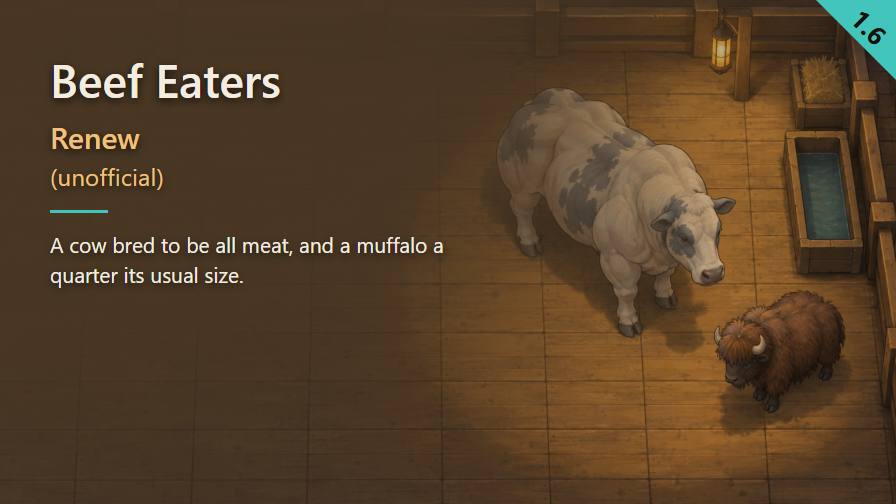
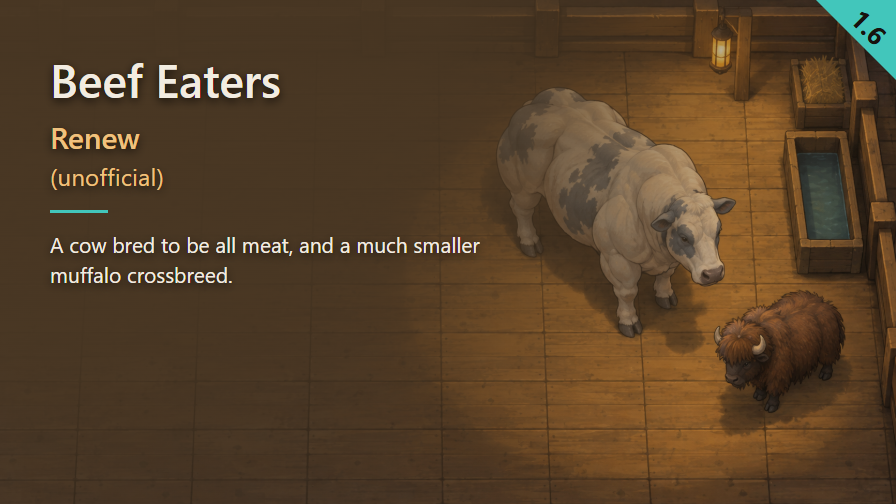
Audit workflow readiness and fix editorial inconsistencies

Changed region(s): [[0.0625, 0.5357, 0.2812, 0.5655], [0.4062, 0.4762, 0.5312, 0.506]]

diff --git a/Art/preview.html b/Art/preview.html
@@ -19,7 +19,7 @@ p { width:430px; font-size:21px; font-weight:400; line-height:1.45; letter-spaci
 <div class="stage">
 <img class="shot" src="Preview.png">
 <div class="veil"></div>
-<div class="text"><h1>Beef Eaters<br><span class="title-suffix">Renew</span></h1><div class="tag">(unofficial)</div><div class="rule"></div><p>A cow bred to be all meat, and a muffalo a quarter its usual size.</p></div>
+<div class="text"><h1>Beef Eaters<br><span class="title-suffix">Renew</span></h1><div class="tag">(unofficial)</div><div class="rule"></div><p>A cow bred to be all meat, and a much smaller muffalo crossbreed.</p></div>
 <div class="badge"></div><div class="version"></div>
 </div>
 <script>

diff --git a/STATUS.md b/STATUS.md
@@ -1,10 +1,14 @@
 ---
+localization: complete
+translation_en: complete
+translation_fr: complete
+settings_audit: not_applicable
 mod:          Beef Eaters Renew (unofficial)
 packageId:    nelim.beefeatersrenew
 repo:         Rimworld-Beef-Eaters-Renew
 visibility:   public
 detached:     yes
-stage:        preTest
+stage:        done
 licence:      silent
 licence_at:   browser-verified 2026-09-12; original files, live description, all 29 comments, 9 changelog entries and author profile; no reuse terms; last mod update 2023-03-11
 dependencies: none
@@ -16,12 +20,150 @@ remaining:
   - unverified: the Animal Gear patch, inert without that mod and never exercised (scenario M)
   - unverified: AnimalFarm added to the pygmy beefalo, so it can be traded at all; no trader has been forced yet (scenario I)
   - unverified: incompatibleWith TheGoofyOne.BeefEaters, never seen firing in the mod list (scenario N)
-  - unverified: French translations added for 21 fields; in-game French display and optional armour still to verify
+  - unverified: English and French in-game display for all 21 owned text fields, generated recipe text and optional armour with Animal Gear enabled/disabled (scenario P)
 session:      local_c1f0d325-e5cd-4552-abce-8d77af2f363d
-updated:      2026-09-13, preview illustration replaced
+updated:      2026-09-13, editorial audit findings fixed and affected checks passed; runtime unverified
 ---
 
 # Beef Eaters Renew — status
+
+## Editorial fixes after audit — 2026-09-13
+
+The user requested correction of the audit findings. All editorial findings listed in the
+audit below are now resolved in the working tree based on
+`c1ace096293cb5338fce3ea824afee27a221e0c4`:
+
+- Replaced the unsupported "quarter" comparison in About.xml and the preview HTML with
+  a qualitative smaller muffalo crossbreed description. Re-rendered the delivered Preview.png
+  using the existing HTML compositor and original illustration; no illustration was generated.
+- Added the exact Steam-formatted Source code on GitHub link at the end of About's description.
+- Removed the changelog's obsolete image-creation todo, corrected the texture count to twenty
+  in TESTING.md and the checker comment, and corrected TESTING's load-order wording to five
+  optional expansions rather than six required expansions.
+
+Validation: `pwsh -NoProfile -File Tools/Check-Mod.ps1` passed (exit 0), including all six XML
+files. Direct XML assertions confirmed the final source link and removal of the old size
+claim. `git diff --check` passed. `node Art/render-preview.cjs` passed using the installed
+runtime packages via NODE_PATH. New Art/preview-qa.json records Segoe UI without fallback,
+896 x 504, 448,366 bytes and minimum contrast 5.87:1 (summary 7.19:1). The delivered image
+and 268-pixel thumbnail were directly inspected: readable title/version, no clipping or
+overlap, and distinct turquoise accent/ochre secondary ink.
+
+Previous rendered preview, thumbnail, background and QA JSON are preserved in
+`Art/archive-before-editorial-fix-2026-09-13/`. The original illustration and icon are unchanged.
+New delivered Preview SHA-256:
[1 lines of base64/hex data omitted]
+Historical audit measurements and findings below describe the pre-fix revision.
+
+`stage: done` remains justified. Settings, translations and dependency validations are
+unaffected: no Def, patch, language resource or gameplay value changed. About metadata is
+outside the in-game translation gate. All previously pending gameplay scenarios remain
+unverified. Existing STATUS.md/TESTING.md edits were preserved; no commit or publication.
+
+## Ordered workflow audit — 2026-09-13
+
+**Verdict: `done` -> `done`.** This audit applies the user's nine-transition workflow,
+including its explicit precedence over PUBLISHING.md, STYLE_RIMWORLD.md, MOD_SETTINGS.md
+and TRANSLATIONS.md. Stage values here are literal workflow names, not numeric codes:
+`dansMonoRepo -> horsMonoRepo -> ModIcon générée -> Preview générée -> preOptions ->
+options -> l10n -> preTest -> done -> tested`. `done` means ready for final in-game
+validation; it does not certify gameplay. The historical notes below are preserved.
+
+Audited checkout: `C:/Users/nelim/Documents/rimworld/BeefEatersRenew`, its own `.git`;
+delivered content: its `Mod/` directory. Revision:
+`c1ace096293cb5338fce3ea824afee27a221e0c4`. At entry only STATUS.md was locally modified
+(including the change from committed `preTest` to working-tree `done`). During the audit,
+another writer updated STATUS.md's translation review and TESTING.md scenario P. Those
+changes were read and preserved. The delivered `Mod/` files have no local diff against
+the audited commit. This audit edits only STATUS.md; no implementation, image, commit,
+publication or historical test result was created or replaced.
+
+| Transition reached | Result | Evidence and scope |
+|---|---|---|
+| horsMonoRepo | validated | Git root is this standalone folder. Live `gh repo view vbardales/Rimworld-Beef-Eaters-Renew --json name,visibility,url,defaultBranchRef` returned PUBLIC, main and the configured URL. `git ls-remote origin HEAD` returned the audited SHA, establishing a pushed commit. STATUS, README, ATTRIBUTION and CHANGELOG exist in English; both attribution copies match. |
+| ModIcon générée | validated; build not applicable | XML/content-only distribution, no C# project or assembly to compile. Direct inspection of the PNG: outlined orange winking mascot, ponytail, meat motif, dark background, no lettering. Measured 128 x 128, PNG, 21,228 bytes. |
+| Preview générée | validated | Directly inspected delivered 896 x 504 PNG and the 268-pixel QA thumbnail: large pale muscular cow and smaller horned shaggy beefalo, high oblique view, regular plank floor, restrained warm palette, no concrete camera defect. 448,124 bytes, below 1 MB. No historical generation report or comparison screenshot is required to establish these observations. |
+| preOptions | validated | English description; Renew remains a reduced secondary-colour suffix and (unofficial) is a separate tag. No linking word in the title requires treatment. The turquoise rule/badge visibly separates from the ochre secondary ink. Palette JSON and composition HTML agree; version badge matches declared 1.6. |
+| options | not applicable justified; gate passed | See Settings audit below. The user's clarification permits the source-based no-settings decision without gameplay. |
+| l10n | validated | All 21 owned fields inventoried and covered by English source values and French injections; checker passed. Generated recipe strings use native translated templates, also checked below. |
+| preTest | validated | References and abstract parents resolve against Core alone; seven XML classes resolve. No mandatory third-party dependency or DLC is used. Listed DLC loadAfter entries are ordering hints, not requirements. Animal Gear is optional behind the sole FindMod guard, with no absent-mod branch. No LoadFolders or version-specific folders. Original packageId confirmed from installed upstream About.xml. |
+| done | validated | TESTING.md A-P supplies actions and expected outcomes, with baseline/load-order/dev-mode preconditions and separate optional-mod/save cases. Applicable automated and XML checks executed successfully on this delivered revision. |
+| tested | unverified | No scenario was executed in a running game by this audit. No attributable gameplay log, EN/FR interface result, new-game or existing-save result is available. Animal Gear present/absent runtime behaviour remains unverified, not a confirmed defect. |
+
+### Settings audit
+
+Inventory reviewed: two animal ThingDefs and PawnKindDefs, their milk/wool comps, race
+statistics, training, roaming, spawning, trade tags, and the conditional armour recipe.
+These are fixed species/content definitions, not an existing user configuration contract.
+The port preserves species balance; no documented player setting requires XML editing.
+Adding sliders for every balance constant would introduce a new feature without a stated
+need. Armour availability follows installed Animal Gear automatically. There is no custom
+settings/persistence code, Mod subclass, MainButtonDef, settings page or shortcut anywhere
+in the distributed files. Thus `settings_audit: not_applicable` is justified by the content
+inventory, not merely by the absence of a DLL. Defaults/input/persistence/reset and shortcut
+tests are not applicable. No RIMMSQOL or other customization integration is claimed tested.
+
+### Checks executed and evidence limits
+
+Installed reference game: `1.6.4871 rev590` from RimWorld/Version.txt. Commands were run
+from this checkout with PowerShell 7 (`pwsh -NoProfile -File`):
+
+- `Tools/Check-Mod.ps1`: passed all five groups, including six XML parses, Wildness values,
+  textures, metadata, trade tags, attribution equality and optional patch structure.
+- `../scripts/Check-XmlFields.ps1 -ModPath ./Mod`: four files checked, no unknown fields.
+- `../scripts/Check-DefInjected.ps1 -TransMod ./Mod`: 21 keys, zero errors and no unresolved
+  targets reported. Its offline patch processing is not a running-game integration test.
+- `../scripts/Check-DefRefs.ps1 -ModPath ./Mod -GameData 'C:/Program Files (x86)/Steam/steamapps/common/RimWorld/Data/Core'`:
+  three ThingDefs, no unresolved or wrongly typed references, all parents resolved.
+- `../scripts/Check-XmlClasses.ps1 -ModPath ./Mod -TypeLists ../rw16_types.txt`:
+  all seven referenced classes resolved. The first invocation omitted mandatory TypeLists
+  and did not run; the corrected invocation above passed.
+- Read the installed assembly's `RimWorld.RecipeDefGenerator` using ilspycmd with
+  `DOTNET_ROLL_FORWARD=Major` (its initial .NET 6 launch failed; .NET 8 roll-forward worked).
+  Armour recipe label, description and work text use RecipeMake, RecipeMakeDescription and
+  RecipeMakeJobString. Verified their English XML and French archive entries: all three
+  contain matching `{0}` parameters and real translations. No redundant mod recipe keys
+  are needed. No mod-owned formatting parameters, duplicate/empty entries or raw keys found.
+- System.Drawing decoded both delivered images and measured their PNG format/dimensions
+  and byte sizes. Visual review covered the actual delivered images; existing palette,
+  HTML and QA JSON were inspected without rerendering or overwriting historical artefacts.
+  Historical numerical contrasts/font measurements were not newly measured by this audit.
+
+Initial sandbox-only GitHub access failed; authorized read-only access then succeeded.
+Licence classification remains `silent` under the project's policy, based on the detailed
+2026-09-12 upstream review retained below and the installed original inspected again here
+(no LICENSE/COPYING, support through 1.4, matching original packageId). This audit does not
+claim a fresh review of every Steam comment or infer upstream permission. No new third-party
+licence should be invented; the lack of a LICENSE file is justified for this unlicensed
+third-party content. The public/unofficial notices match the documented project decision.
+
+### Remaining mandatory validation and separate editorial observations
+
+For `done -> tested`, execute the relevant A-P scenarios in RimWorld 1.6, record actual
+results and inspect logs, including English/French text, a new colony and an existing save,
+and Animal Gear enabled/disabled for the shipped integration. Settings interaction and
+persistence are not applicable; verify the expected absence of an empty settings entry.
+Record the exact game/integration versions and revision, then rerun affected regressions
+after any corrections. No game session or Animal Gear test environment was exercised here.
+
+Non-blocking editorial findings, separate from missing mandatory gameplay checks:
+
+- About's introductory text and the preview say "a quarter" of a muffalo's size, whereas
+  the detailed description and Def body sizes are 1.0 versus 2.4 (about 42%). The numeric
+  shorthand is inconsistent if intended as body size. Prefer a qualitative smaller-animal
+  description when those materials are next revised; this is not a visual camera defect.
+- The GitHub source link exists, but About's description does not end with the exact Steam
+  `[url=...]Source code on GitHub[/url]` form prescribed for publication. Align it before
+  publication; this does not invalidate the requested development/test transitions.
+- CHANGELOG's release todo still asks to add images already delivered, and TESTING's
+  opening texture count says nineteen although twenty PNG textures are shipped. These
+  stale counts do not indicate missing artefacts or failed tests.
+
+Image SHA-256 anchors:
[2 lines of base64/hex data omitted]
+
+## Historical status notes
 
 Status card, read by a sweep over every mod rather than by asking each thread one at a time. It
 lives at the root, never inside `Mod/`, so Steam never receives it.
@@ -33,10 +175,10 @@ The fields above were read off the disk on 2026-09-12 by the sweep, which left t
 corrupted — `licence` read `licence_ou:` and `licence_at` had swallowed a `vitrine:` key. They are
 repaired here, along with the four the sweep could not know:
 
-- **`stage`** — `preTest`. The port itself is whole and has been since the first commit: wildness
-  moved from a `RaceProperties` field to a stat under `statBases`, on both animals, which is the one
-  line 1.6 required. The icon was made on 2026-09-12; the preview illustration was replaced on 2026-09-13. Nothing is left but the game, and then
-  the Workshop, which is what `preTest` means here.
+- **`stage`** — `done`, accepted by the user on 2026-09-13. Implementation, French translation,
+  automated checks and showcase are complete. The unplayed manual scenarios remain recorded
+  as verification limits, not blockers to this completion decision. Workshop publication has
+  not been performed; `done` does not claim runtime validation or publication.
 - **`tested_on`** — empty, and that is accurate rather than an omission. Neither animal has ever
   been seen in a running game. No calf spawned, no information card read, no pen filled.
 - **`licence`** — `silent`. The original states nothing in any of the four places `ATTRIBUTION.md`
@@ -53,6 +195,50 @@ conversation.
 The `licence` vocabulary: `open` an explicit licence, `silent` no licence and a dead source,
 `alive` no licence but a living source, `forbidden` a written refusal, `original` owing nothing
 to anyone — not a name, not an idea traceable to one mod, not a value derived from its assets.
+
+## Translation audit — 2026-09-13
+
+Applied `../PUBLISHING.md` and `../TRANSLATIONS.md` to the content at revision
+`c1ace096293cb5338fce3ea824afee27a221e0c4`. Reviewed both files under `Mod/Defs/`,
+`Mod/Patches/Armor.xml`, both French DefInjected files and the full published file list.
+There are no assemblies, UI source, Keyed strings, custom grammar resources, version
+folders or LoadFolders. The optional Animal Gear patch is included in this inventory.
+
+| Owned text source | English source fields | French entries |
+|---|---:|---:|
+| BelgianBlueCow ThingDef: name, description, three named attacks | 5 | 5 |
+| BelgianBlueCow PawnKindDef: name, male name, calf and plural | 4 | 4 |
+| PygmyBeefalo ThingDef: name, description, five named attacks | 7 | 7 |
+| PygmyBeefalo PawnKindDef: name, calf and plural | 3 | 3 |
+| Optional Apparel_PygmyBeefaloArmour: name and description | 2 | 2 |
+| Total | 21 | 21 |
+
+All owned text uses native translatable Def fields. English is supplied by the original
+Def values; a duplicate English language folder is unnecessary. French covers all 21
+fields, including nested attack handles and calf labels. Reviewed meaning and terminology;
+no empty values, duplicate keys, untranslated placeholders, parameter tokens or rich-text
+markup were found. The two horn handles are distinct (`horn-0` and `horn-1`).
+
+The mod references vanilla resources for milk, wool, meat, leather, body parts and attack
+capacities; it supplies no replacement text for them and uses no dependency Keyed keys.
+The armour recipe is generated by the game from the apparel Def and its localized label;
+there is no separate mod-owned recipe sentence. About metadata, identifiers, paths and
+repository documentation are outside the in-game translation gate.
+
+Validation rerun on 2026-09-13:
+
+- `pwsh -NoProfile -File ../scripts/Check-DefInjected.ps1 -TransMod ./Mod`: 21 keys,
+  zero errors, no unresolved targets reported, exit 0, against installed game types.
+- `powershell -NoProfile -ExecutionPolicy Bypass -File Tools/Check-Mod.ps1`: all checks
+  passed, exit 0, including all six XML files and the optional patch guard.
+- XML inventory: 21 owned source fields matched to 14 ThingDef and 7 PawnKindDef
+  French entries; zero duplicate keys or empty values in either translation file.
+
+The three `complete` fields certify the offline translation gate only. No in-game language
+test was performed. Scenario P and `remaining` track both languages, generated recipe text
+and Animal Gear present/absent cases. The existing user-accepted `stage: done` is preserved.
+After text, Def, patch or language-resource changes, reset the affected translation fields
+to `unchecked` and repeat this audit before claiming the gate is complete again.
 
 ## Verification on 2026-09-12
 
@@ -71,8 +257,9 @@ to anyone — not a name, not an idea traceable to one mod, not a value derived 
   unofficial status. Keep the existing suffix; no additional suffix is needed.
 - **Manual functional tests:** sixteen scenarios, A-P, exist in `TESTING.md`, with steps and
   expected outcomes covering loading, wildness, production, pens, caravans, training, spawning,
-  trade, graphics, breeding, Animal Gear, conflicts and saves. They remain unplayed; `stage`
-  stays `preTest` and `tested_on` stays empty. Scenario P now uses the full suffixed title.
+  trade, graphics, breeding, Animal Gear, conflicts and saves. They remain unplayed and
+  `tested_on` stays empty. The user subsequently accepted `done` on 2026-09-13.
+  Scenario P now uses the full suffixed title.
 - **Automated tests:** `powershell -NoProfile -ExecutionPolicy Bypass -File Tools/Check-Mod.ps1`
   passed with exit code 0. It checks XML parsing, the wildness migration, local texture paths,
   package metadata, trade tags and attribution consistency. Added checks protect the title,

diff --git a/TESTING.md b/TESTING.md
@@ -1,6 +1,6 @@
 # Test scenarios
 
-Two defs, nineteen textures, one guarded patch, no assembly. There is very little here to break,
+Two animals, twenty textures, one guarded patch, no assembly. There is very little here to break,
 and the one thing that *was* broken broke **silently**. That is why this mod needs the game rather
 than a file checker.
 
@@ -24,7 +24,7 @@ question.
 nelim.beefeatersrenew    this mod    after Core and all official expansions
 ```
 
-`<loadAfter>` names Core and the six expansions, which is all this mod needs: it inherits
+`<loadAfter>` names Core and five optional expansions. No expansion is required: the mod inherits
 `AnimalThingBase` and `AnimalKindBase` from Core, uses two Core bodies, and touches nothing else.
 
 **The original must stay off.** TheGoofyOne's Beef Eaters
@@ -320,8 +320,10 @@ installed on this machine, so this scenario can actually be run.
   Belgian blue beside a much smaller horned shaggy beefalo. Confirm the picture displays correctly.
 - Switch the game to French and restart: check both animal names and descriptions, the bull,
   calf labels and plurals, and the named attacks. With Animal Gear enabled, check the armour
-  name and description too. With it disabled, check for missing-def translation errors.
-  Switch back to English and confirm the original labels return. About metadata stays English.
+  name and description too, plus its generated smithy recipe label and work text. With it
+  disabled, check for missing-def translation errors. Switch back to English and repeat
+  these checks, confirming the original labels return. In both languages, check for raw keys,
+  unexpected fallback text, broken formatting and clipping. About metadata stays English.
 
 French translation keys can also be checked against the installed game types with
 `pwsh -NoProfile -File ../scripts/Check-DefInjected.ps1 -TransMod ./Mod`.

diff --git a/CHANGELOG.md b/CHANGELOG.md
@@ -6,8 +6,8 @@ in game.
 
 ## [1.0.0] — unreleased
 
-On release: add `Mod/About/ModIcon.png` and `Mod/About/Preview.png`, create the `v1.0.0` tag and
-the matching GitHub release, then publish to the Workshop.
+The mod icon and preview are included. After final in-game validation, create the `v1.0.0`
+tag and the matching GitHub release, then publish to the Workshop.
 
 First release of the 1.6 update of **Beef Eaters**, by TheGoofyOne.
 
@@ -32,6 +32,10 @@ First release of the 1.6 update of **Beef Eaters**, by TheGoofyOne.
   collision with the original.
 
 ### Documentation
+
+- Replaced the inaccurate quarter-size claim in the description and preview with a
+  qualitative smaller muffalo crossbreed description. Added the final Steam-formatted
+  GitHub source link and refreshed the release checklist, texture count and load-order notes.
 
 - **The pygmy beefalo was described as the opposite of what it is.** The description called it a pen
   animal rather than a caravan animal: it has no `roamMtbDays`, so it needs no pen, and it carries
